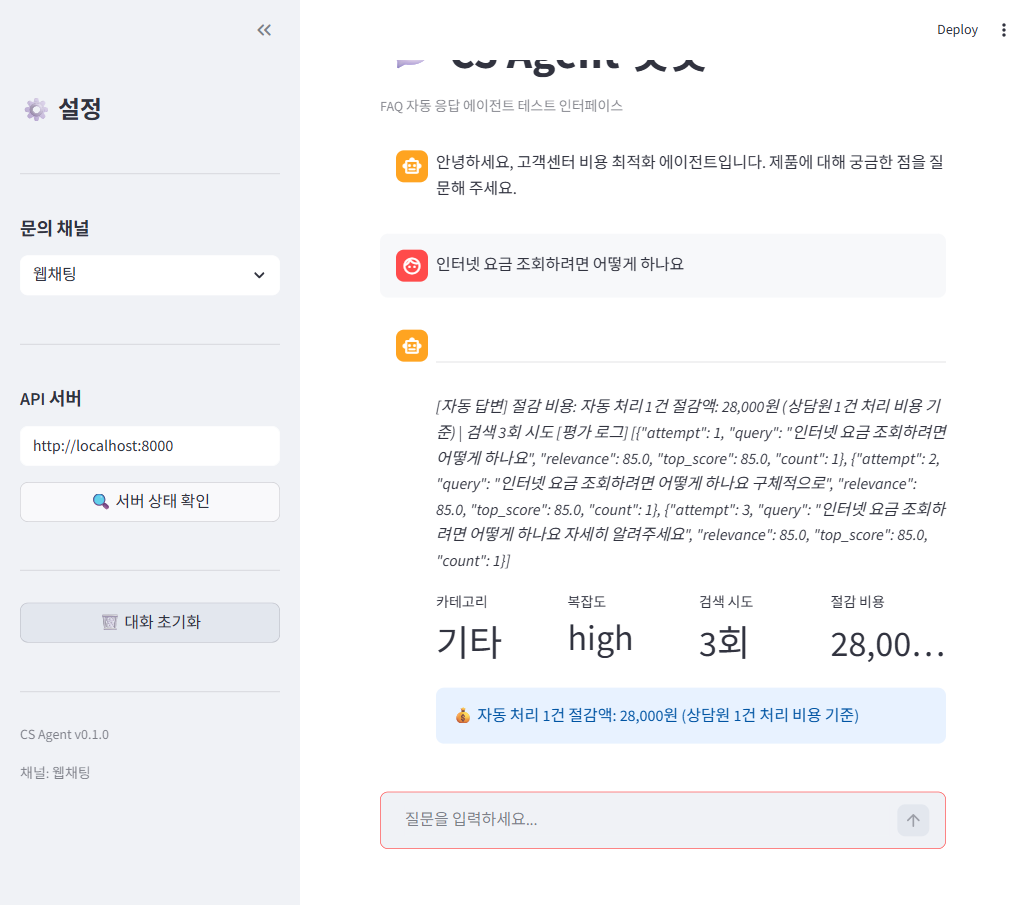
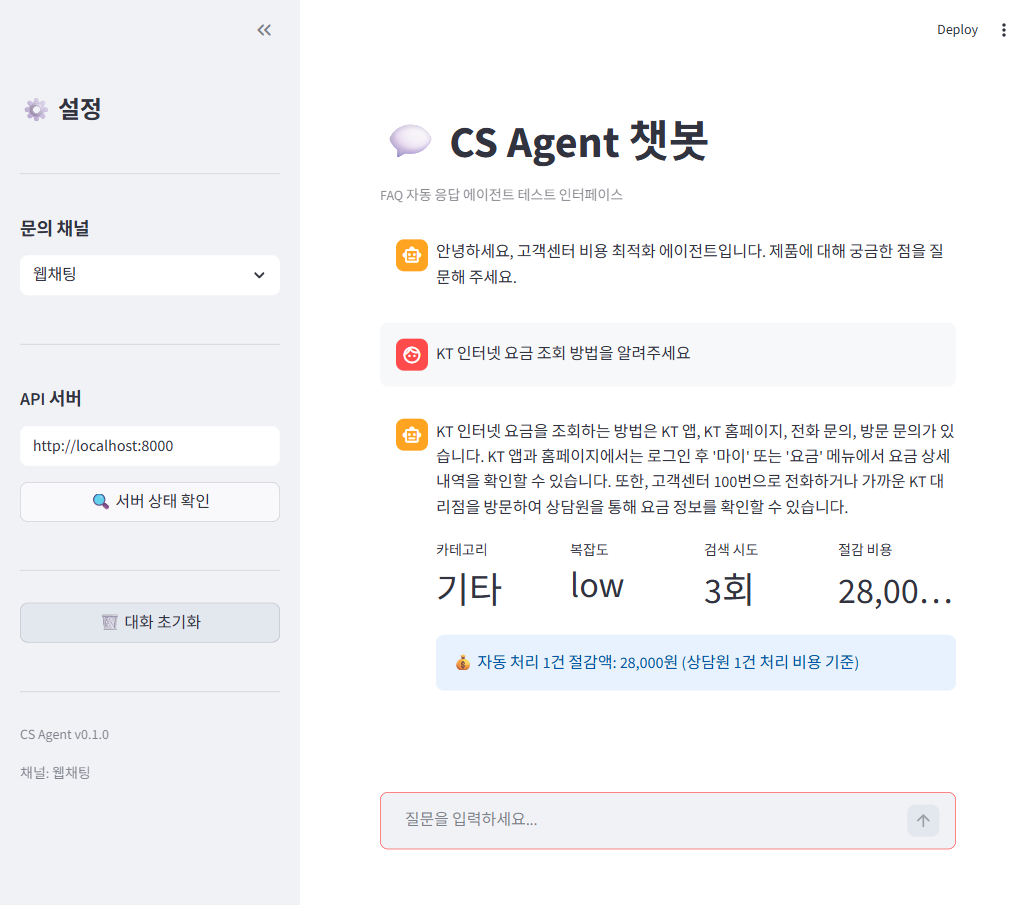
응답 파싱 수정 및 스크린샷 갱신
- routes.py: auto_answer_text(raw 메타데이터 포함) 대신 generated_answer(순수 LLM 답변)만 스트리밍
- answer_gen.py, classifier.py: Groq base_url 이중 경로 수정 (ChatGroq base_url 명시)
- screenshots/02_auto_answer.png: FAQ 자동 답변 (LLM 답변 텍스트 정상 표시)
- screenshots/03_escalation.png: 상담원 이관 (김상담, 대기 2번, 3분, 우선 처리)

diff --git a/app/api/routes.py b/app/api/routes.py
@@ -63,8 +63,8 @@ async def _stream_response(state: dict, elapsed_ms: int):
     process_type = state.get("process_type", "auto")
 
     if process_type == "auto":
-        # 자동 답변: 토큰 단위 스트리밍
-        answer = state.get("auto_answer_text", "") or state.get("generated_answer", "")
+        # 자동 답변: LLM 생성 답변만 스트리밍 (메타데이터는 별도 이벤트)
+        answer = state.get("generated_answer", "")
         # 토큰 단위로 분할 (문장 단위)
         sentences = answer.split(". ")
         for i, sentence in enumerate(sentences):

diff --git a/app/graph/nodes/classifier.py b/app/graph/nodes/classifier.py
@@ -72,6 +72,7 @@ def classify_question(state: AgentState) -> AgentState:
             model=settings.groq_model,
             max_tokens=settings.groq_max_tokens,
             temperature=settings.groq_temperature,
+            base_url="https://api.groq.com",
         )
 
         user_prompt = USER_PROMPT_TEMPLATE.format(

diff --git a/app/graph/nodes/answer_gen.py b/app/graph/nodes/answer_gen.py
@@ -101,6 +101,7 @@ def generate_answer(state: AgentState) -> AgentState:
             model=settings.groq_model,
             max_tokens=settings.groq_max_tokens,
             temperature=settings.groq_temperature,
+            base_url="https://api.groq.com",
         )
 
         messages = [
